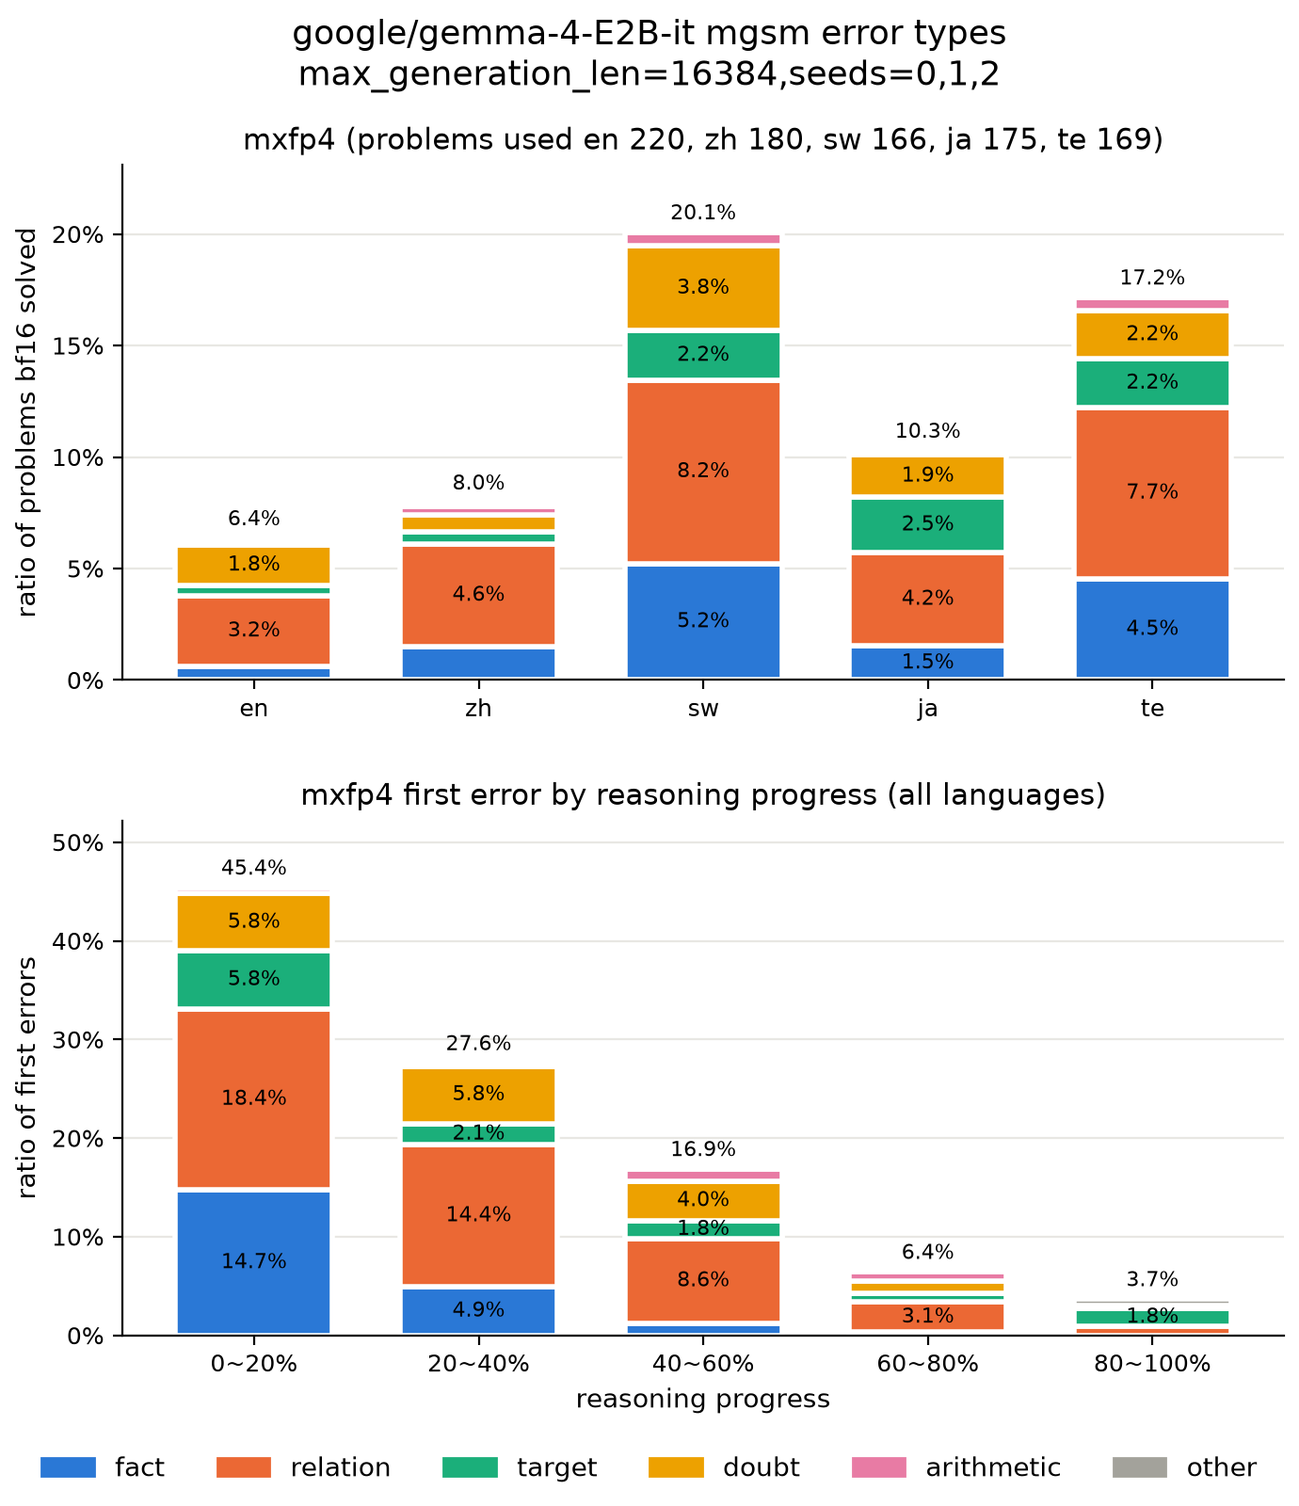
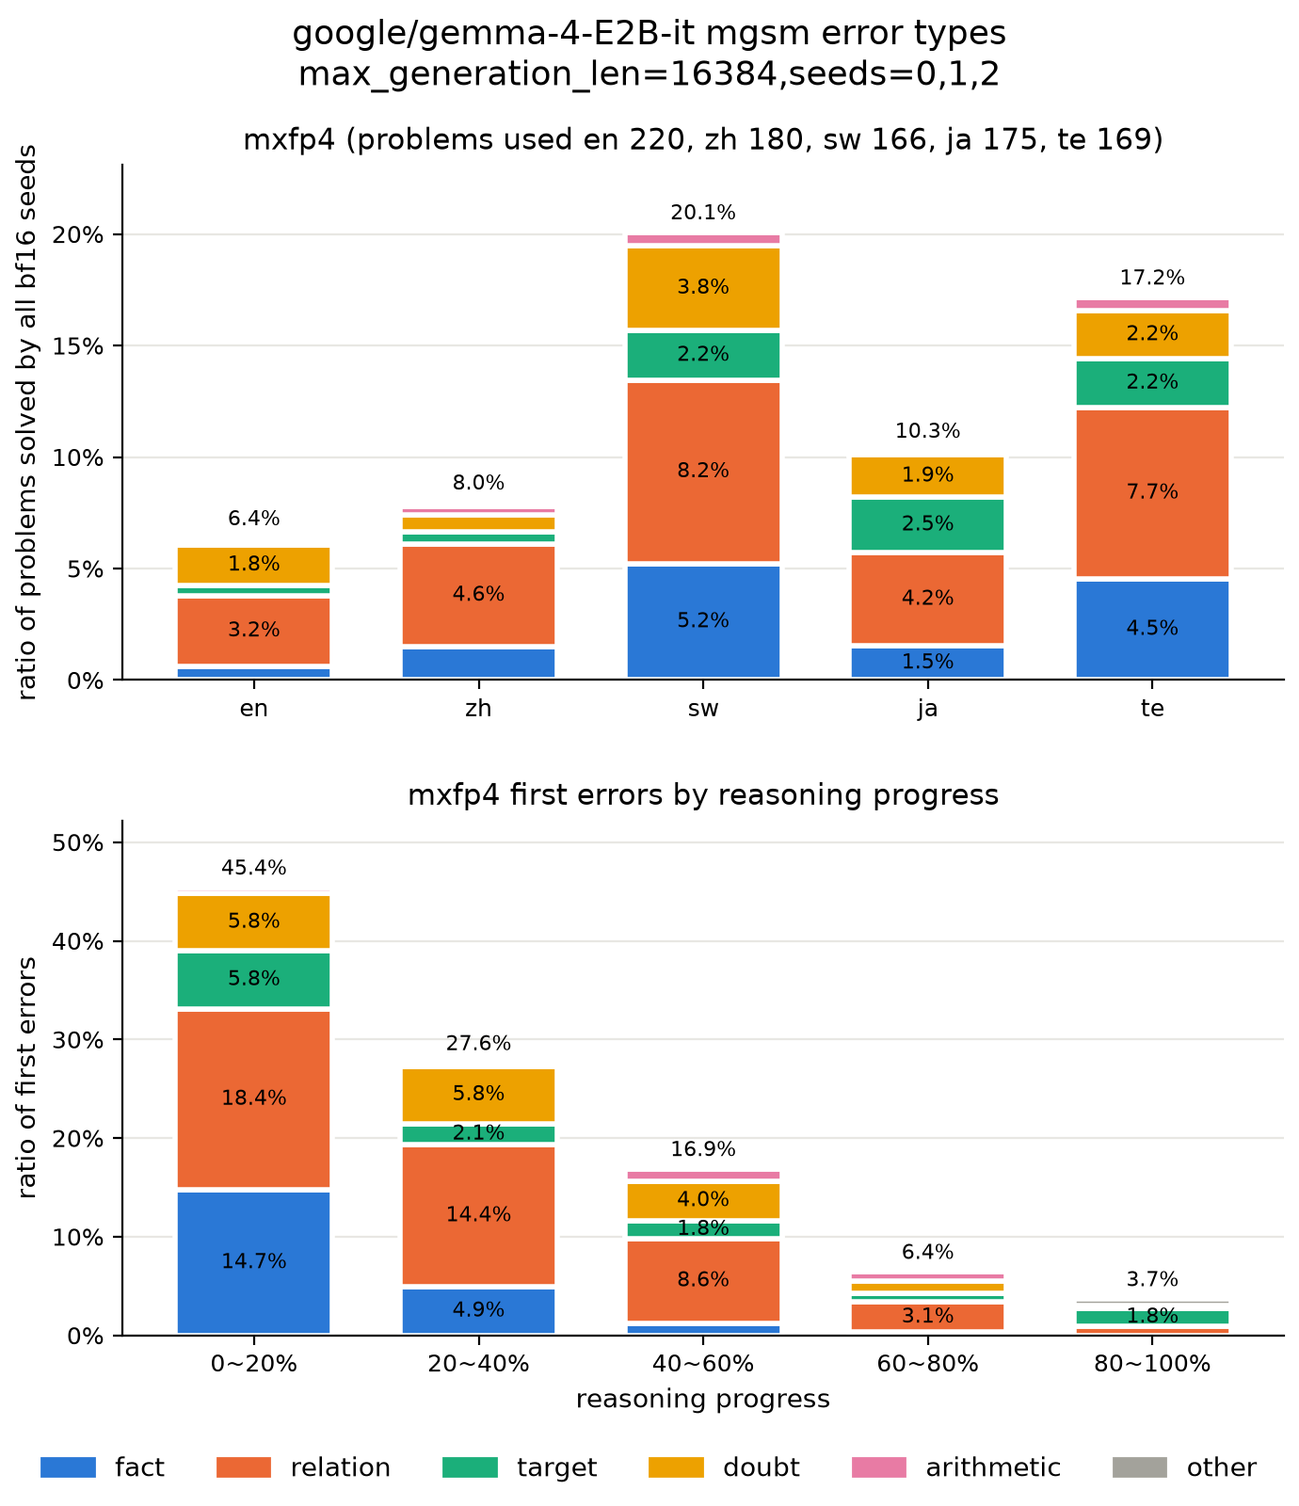
polish docs, comments and plots for consistency

diff --git a/methods/understanding_qat.py b/methods/understanding_qat.py
@@ -25,13 +25,13 @@ TRAIN_LANGUAGES = ["zh", "sw", "ja", "te"]
 @dataclass
 class Config:
     model_name: str = "google/gemma-4-E2B-it"
-    # bf16 reasoning on gsm8k to take en understanding from, seed also seeds training
-    seed: int = 0
-    max_generation_len: int = 16384
     lr: float = 1e-5
     num_epochs: int = 1
     warmup_ratio: float = 0.05
     batch_size: int = 8
+    # data to train on
+    seed: int = 0
+    max_generation_len: int = 16384
 
 
 class STELinear(Module):
@@ -42,7 +42,6 @@ class STELinear(Module):
         super().__init__()
         self.weight = linear.weight
         self.bias = linear.bias
-        # fix scale from bf16 weight, so groups are not rounded again to new scale when group max crosses power of 2
         self.scale = find_fp4_scale(self.groups())[..., None]
 
     def groups(
@@ -53,7 +52,7 @@ class STELinear(Module):
     def quantize(
         self,
     ) -> Tensor:
-        # detach only rounding, so gradient of quantized weight goes to weight
+        # detach only rounding, because gradient of quantized weight must go to weight
         with torch.no_grad():
             quantized = round_to_fp4(self.groups(), self.scale).reshape(self.weight.shape)
         return self.weight + (quantized - self.weight).detach()
@@ -86,8 +85,8 @@ def main() -> None:
     model = load_model(config.model_name)
     model.float()
 
-    # 1) put bf16 en understanding at start of reasoning, after prompt in each language, on problems that have it
-    # e.g. sw prompt + "<|channel>thought\nHere's a thinking process ...\n\n1.  **Understand the Goal:** ...\n\n"
+    # 1) put en understanding at start of reasoning, after prompt with native instruction
+    # e.g. sw prompt + "<|channel>thought\n" + en understanding
     tensors = load_tensors("gsm8k", make_bf16_path(config.model_name), f"max_generation_len={config.max_generation_len},seed={config.seed}")
     language_prompt_ids = {language: tensors[f"{language}/prompt_ids"].split(tensors[f"{language}/prompt_lens"].tolist()) for language in TRAIN_LANGUAGES}
     en_thinks = tokenizer.batch_decode(tensors["en/think_ids"].split(tensors["en/think_lens"].tolist()), skip_special_tokens=True)
@@ -102,7 +101,7 @@ def main() -> None:
             samples.append((torch.cat([prompt_ids, en_understanding_ids]), len(prompt_ids)))
     print(f"samples {len(samples)} problems {len(samples) // len(TRAIN_LANGUAGES)} of {len(en_thinks)}")
 
-    # 2) use ste linears, so gradient goes through mxfp4 rounding
+    # 2) use ste linears, because gradient must go through mxfp4 rounding
     replaced = replace_linears(model)
     ste_linears = [ste_linear for _, _, ste_linear in replaced]
     for ste_linear in ste_linears:
@@ -141,7 +140,7 @@ def main() -> None:
                 log_time = time.perf_counter()
                 torch.cuda.reset_peak_memory_stats()
 
-    # 4) put quantized weights back into linears, and save
+    # 4) put quantized weights back into linears and save
     layers = model.model.language_model.layers
     with torch.no_grad():
         for name, linear, ste_linear in replaced:

diff --git a/data/gsm8k.py b/data/gsm8k.py
@@ -26,7 +26,7 @@ def load_gsm8k() -> dict[str, list[tuple[str, int]]]:
     gsm8k = load_dataset("openai/gsm8k", "main", split="train")
     mcot = load_dataset("laihuiyuan/mCoT-MATH", data_files="train_part_*.jsonl", split="train").select_columns(["question", "lang-id"])
 
-    # 1) group mcot questions by id, because same problem has same id in every language
+    # 1) group mcot questions by id, because same problem has same id in each language
     # e.g. "en-54530", "sw-54530" -> questions["54530"] = {"en": ..., "sw": ...}
     questions = defaultdict(dict)
     for batch in mcot.iter(batch_size=100000):
@@ -35,14 +35,14 @@ def load_gsm8k() -> dict[str, list[tuple[str, int]]]:
             if language in MGSM_PROMPTS:
                 questions[mcot_id][language] = question.strip()
 
-    # 2) map en question to questions in all languages
+    # 2) map mcot en question to question in each language
     questions_by_en = {" ".join(language_questions["en"].split()): language_questions for language_questions in questions.values()}
 
-    # 3) take questions in all languages for each gsm8k train problem, in gsm8k order
+    # 3) match each gsm8k train question with mcot en question
     problems = {language: [] for language in MGSM_PROMPTS}
     for row in gsm8k:
         language_questions = questions_by_en[" ".join(row["question"].split())]
-        # e.g. "Natalia sold 48/2 = <<48/2=24>>24 clips in May. ...\n#### 72" -> 72
+        # e.g. "...\n#### 72" -> 72
         answer = int(row["answer"].split("####")[-1].replace(",", ""))
         for language in MGSM_PROMPTS:
             problems[language].append((MGSM_PROMPTS[language].format(question=language_questions[language]), answer))
@@ -67,7 +67,7 @@ def main() -> None:
     print(f"{target} en accuracy {result['accuracy']:.2%} think len {mean(result['think_lens']):.0f} truncated {mean(result['truncateds']):.2%}")
     print(f"{target} time {format_duration(time.perf_counter() - log_time)}")
 
-    # 2) keep prompt ids of each language, en reasoning ids, on problems solved by bf16 in en
+    # 2) keep prompt ids in each language and en reasoning ids on problems solved by bf16 in en
     # e.g. "<|channel>thought\n...<channel|>Answer: 72" -> "<|channel>thought\n..."
     tensors = defaultdict(list)
     for problem_index, (output, correct, think_len) in enumerate(zip(outputs, result["corrects"], result["think_lens"])):

diff --git a/utils/model.py b/utils/model.py
@@ -4,7 +4,7 @@ from transformers import AutoModelForImageTextToText, PreTrainedModel, PreTraine
 from vllm import LLM, SamplingParams  # type: ignore
 from vllm.outputs import CompletionOutput  # type: ignore
 
-# sampling settings recommended for thinking mode, with reasoning start, end tokens
+# sampling settings recommended for thinking mode, with reasoning start and end tokens
 GENERATION_CONFIGS = {
     "Qwen/Qwen3.5-2B": {"temperature": 1.0, "top_p": 0.95, "top_k": 20, "presence_penalty": 1.5, "think_start": "", "think_end": "</think>"},
     "Qwen/Qwen3.5-27B": {"temperature": 1.0, "top_p": 0.95, "top_k": 20, "presence_penalty": 1.5, "think_start": "", "think_end": "</think>"},
@@ -12,7 +12,7 @@ GENERATION_CONFIGS = {
 }
 
 # saved gemma reasoning starts with this after reasoning start token
-# e.g. "<|channel>thought\nHere's a thinking process ...<channel|>"
+# e.g. "<|channel>thought\n...<channel|>"
 THINK_HEADER = "thought\n"
 
 
@@ -75,7 +75,7 @@ def get_think_ids(
     model_name: str,
     think: str,
 ) -> Tensor:
-    # saved reasoning has no special tokens, so put back reasoning start token
+    # put back reasoning start token, because saved reasoning has no special tokens
     return tokenizer(GENERATION_CONFIGS[model_name]["think_start"] + think, add_special_tokens=False, return_tensors="pt")["input_ids"][0]
 
 
@@ -84,8 +84,7 @@ def get_think_hiddens(
     input_ids: Tensor,
     prompt_len: int,
 ) -> Tensor:
-    # hidden at t predicts token t+1
-    # so keep from last prompt token to second last reasoning token
+    # keep from last prompt token to second last reasoning token, because hidden at t predicts token t+1
     # e.g. input [p0, p1, p2, r0, r1, r2]
     #      keep  [        p2, r0, r1    ] (each predicts r0, r1, r2)
     return model.model(input_ids=input_ids[None, :].to(model.device), use_cache=False).last_hidden_state[0, prompt_len - 1 : -1]
@@ -96,6 +95,6 @@ def get_logits(
     hiddens: Tensor,
 ) -> Tensor:
     logits = model.lm_head(hiddens).float()
-    # gemma forward caps logits, so do same when calling lm_head directly
+    # cap logits when calling lm_head directly, because gemma forward caps them
     softcapping = getattr(model.config.get_text_config(), "final_logit_softcapping", None)
     return logits if softcapping is None else torch.tanh(logits / softcapping) * softcapping

diff --git a/plots/error_types.py b/plots/error_types.py
@@ -56,7 +56,6 @@ def main() -> None:
     tokenizer = AutoTokenizer.from_pretrained(config.model_name)
     bf16_results = [load_result("mgsm", make_bf16_path(config.model_name), f"max_generation_len={config.max_generation_len},seed={seed}") for seed in config.bf16_seeds]
 
-    # 1) count error types of each language
     language_ratios = []
     used_counts = {}
     for language in LANGUAGES:
@@ -64,7 +63,6 @@ def main() -> None:
         error_types = [error_type or "other" for result in results for error_type in result[language]["error_types"]]
         language_ratios.append({error_type: error_types.count(error_type) / (used_counts[language] * len(results)) for error_type in ERROR_TYPE_COLORS})
 
-    # 2) count error types of first errors in each reasoning progress bin
     bin_counts = [dict.fromkeys(ERROR_TYPE_COLORS, 0) for _ in range(NUM_PROGRESS_BINS)]
     for language in LANGUAGES:
         for result, quantized_result in zip(results, quantized_results):
@@ -80,14 +78,14 @@ def main() -> None:
     fig, axes = plt.subplot_mosaic([["types"], ["progress"]], figsize=get_figsize([get_panel_width(len(LANGUAGES), 1)], 2), layout="constrained")
     plot_error_types(axes["types"], language_ratios)
     axes["types"].set_xticks(range(len(LANGUAGES)), LANGUAGES)
-    axes["types"].set_ylabel("ratio of problems bf16 solved")
+    axes["types"].set_ylabel("ratio of problems solved by all bf16 seeds")
     axes["types"].set_title(f"{config.method} (problems used {', '.join(f'{language} {used_counts[language]}' for language in LANGUAGES)})")
 
     plot_error_types(axes["progress"], progress_ratios)
     axes["progress"].set_xticks(range(NUM_PROGRESS_BINS), PROGRESS_LABELS)
     axes["progress"].set_xlabel("reasoning progress")
     axes["progress"].set_ylabel("ratio of first errors")
-    axes["progress"].set_title(f"{config.method} first error by reasoning progress (all languages)")
+    axes["progress"].set_title(f"{config.method} first errors by reasoning progress")
 
     fig.suptitle(f"{config.model_name} mgsm error types\nmax_generation_len={config.max_generation_len},seeds={','.join(map(str, config.seeds))}")
     fig.legend(handles=[Patch(color=color, label=error_type) for error_type, color in ERROR_TYPE_COLORS.items()], loc="outside lower center", ncol=len(ERROR_TYPE_COLORS))

diff --git a/methods/awq.py b/methods/awq.py
@@ -25,7 +25,7 @@ class Config:
     group_size: int = 128
     num_search_steps: int = 20
     max_shrink: float = 0.5
-    # wikipedia calibration
+    # data to calibrate on
     calibration_languages: tuple[Literal["en", "zh", "sw", "ja", "te"], ...] = ("en",)
     num_samples: int = 128
     max_sequence_len: int = 2048
@@ -115,7 +115,7 @@ def find_smooth(
     group_size: int,
     num_search_steps: int,
 ) -> Tensor:
-    # compare whole layer output, not each sub-module, so code stays simple
+    # compare whole layer output, not each sub-module, because it keeps code simple
     outputs = forward_layer(layer, inputs)
     weights = [linear.weight.clone() for linear in linears]
 
@@ -143,13 +143,12 @@ def find_clip(
     num_search_steps: int,
     max_shrink: float,
 ) -> Tensor:
-    # outliers widen grid range, step size
-    # so search clip for each quantization group
-    # 1) apply smooth to weight (w * s), hessian (x / s)
+    # search clip for each group, because outliers widen grid range and step size
+    # 1) apply smooth to weight (w * s) and hessian (x / s)
     groups = (weight.float() * smooth).reshape(weight.shape[0], -1, group_size)
     num_groups = groups.shape[1]
     smoothed_hessian = hessian / smooth[:, None] / smooth[None, :]
-    # clip is picked per group, so keep only each group's diagonal block
+    # keep only each group's diagonal block, because clip is picked per group
     hessian_blocks = smoothed_hessian.reshape(num_groups, group_size, num_groups, group_size).diagonal(dim1=0, dim2=2).permute(2, 0, 1)
 
     # 2) search clip
@@ -161,7 +160,7 @@ def find_clip(
         scale, zero = find_grid(groups.clamp(-clip_value[..., None], clip_value[..., None]), num_bits)
         quantized = round_to_grid(groups, scale[..., None], zero[..., None], num_bits)
         delta = quantized - groups
-        # error of other groups in same row also affects output, but ignore it, so each group's clip can be searched alone
+        # ignore error of other groups in same row, because then each group's clip can be searched alone
         error = torch.einsum("ogi,gij,ogj->og", delta, hessian_blocks, delta)
         is_better = error < best_error
         best_error = torch.where(is_better, error, best_error)

diff --git a/methods/gptq.py b/methods/gptq.py
@@ -23,7 +23,7 @@ class Config:
     group_size: int = 128
     block_size: int = 128
     damp_ratio: float = 0.01
-    # wikipedia calibration
+    # data to calibrate on
     calibration_languages: tuple[Literal["en", "zh", "sw", "ja", "te"], ...] = ("en",)
     num_samples: int = 128
     max_sequence_len: int = 2048
@@ -60,12 +60,12 @@ def quantize_weight(
     damp_ratio: float,
 ) -> Tensor:
     weight = weight.float().clone()
-    # 1) zero dead columns, so hessian stays invertible
+    # 1) zero dead columns, because hessian must stay invertible
     is_dead = hessian.diagonal() == 0
     weight[:, is_dead] = 0
     hessian.diagonal()[is_dead] = 1
 
-    # 2) damp diagonal, so inverse stays stable
+    # 2) damp diagonal, because inverse must stay stable
     hessian.diagonal().add_(damp_ratio * hessian.diagonal().mean())
     hessian_inv = torch.linalg.cholesky(torch.cholesky_inverse(torch.linalg.cholesky(hessian)), upper=True)
 
@@ -78,10 +78,10 @@ def quantize_weight(
         end = min(start + block_size, weight.shape[1])
         for column in range(start, end):
             group = column // group_size
-            # set grid when group starts, so it uses weights updated by earlier columns
+            # set grid when group starts, because it must use weights updated by earlier columns
             if column % group_size == 0:
                 scale[:, group], zero[:, group] = find_grid(weight[:, column : column + group_size], num_bits)
-            # 3-1) quantize column, and spread its error to later columns in block
+            # 3-1) quantize column and spread its error to later columns in block
             quantized[:, column] = round_to_grid(weight[:, column], scale[:, group], zero[:, group], num_bits)
             error[:, column - start] = (weight[:, column] - quantized[:, column]) / hessian_inv[column, column]
             weight[:, column:end] -= torch.outer(error[:, column - start], hessian_inv[column, column:end])

diff --git a/plots/teacher_forcing.py b/plots/teacher_forcing.py
@@ -41,18 +41,18 @@ def main() -> None:
         target = make_target_path(method, config.model_name, config.calibration_languages, config.num_bits, config.group_size, config.num_samples)
         results[method] = load_tensors(entry_name, target, file_name)
 
-    kl_groups = []
+    groups = []
     for language in LANGUAGES:
         kl_means = []
         for result in results.values():
             problem_kls = torch.stack([kl.mean() for kl in split_problems(result[f"{language}/kl"], result[f"{language}/problem_index"])])
             kl_means.append(problem_kls.mean().item())
-        kl_groups.append((kl_means, LANGUAGE_COLORS[language], [f"{kl_mean:.3f}" for kl_mean in kl_means]))
+        groups.append((kl_means, LANGUAGE_COLORS[language], [f"{kl_mean:.3f}" for kl_mean in kl_means]))
 
     panel_widths = [get_panel_width(len(results), len(LANGUAGES))]
     fig, axes = plt.subplot_mosaic([["kl"], ["progress"]], figsize=get_figsize(panel_widths, 2), layout="constrained")
-    plot_bars(axes["kl"], list(results), kl_groups)
-    axes["kl"].set_ylim(0, max(max(values) for values, _, _ in kl_groups) * 1.15)
+    plot_bars(axes["kl"], list(results), groups)
+    axes["kl"].set_ylim(0, max(max(values) for values, _, _ in groups) * 1.15)
     axes["kl"].set_ylabel("mean kl per problem")
     result = results[config.method]
     used_counts = {language: len(result[f"{language}/problem_index"].unique()) for language in LANGUAGES}
@@ -68,7 +68,6 @@ def main() -> None:
 
     fig.suptitle(f"{config.model_name} mgsm teacher forcing\n{file_name}")
     fig.legend(handles=[Line2D([], [], color=LANGUAGE_COLORS[language], marker="o", linewidth=2, label=language) for language in LANGUAGES], loc="outside lower center", ncol=len(LANGUAGES))
-    # panels share one column, so fit width by one panel
     fit_bar_width(fig, [axes["kl"]])
     save_figure(fig, config.model_name, "mgsm_teacher_forcing")
 

diff --git a/experiments/en_understanding_swap.py b/experiments/en_understanding_swap.py
@@ -41,15 +41,17 @@ def main() -> None:
     problems = load_mgsm(languages)
     bf16_result = load_result("mgsm", make_bf16_path(config.model_name), file_name)
 
-    # 1) put bf16 en understanding at start of reasoning, after prompt in each language, on problems that have it
+    # 1) use problems that have en understanding
     tokenizer = AutoTokenizer.from_pretrained(config.model_name)
     understandings = [get_understanding(think) for think in bf16_result["en"]["thinks"]]
     problem_indices = [problem_index for problem_index, understanding in enumerate(understandings) if understanding is not None]
+
+    # 2) put en understanding at start of reasoning, after prompt with native instruction
     input_ids = [torch.cat([get_prompt_ids(tokenizer, problems[language][problem_index][0]), get_think_ids(tokenizer, config.model_name, understandings[problem_index])]) for language in languages for problem_index in problem_indices]
     model_path = config.model_name if config.method == "bf16" else download_model(target)
     model = load_vllm(model_path, config.model_name, config.seed)
 
-    # 2) continue after understanding and score it
+    # 3) continue after en understanding and score it
     log_time = time.perf_counter()
     outputs = continue_vllm(model, config.model_name, input_ids, config.max_generation_len)
     result = {}

diff --git a/experiments/error_types.py b/experiments/error_types.py
@@ -79,7 +79,7 @@ def main() -> None:
     bf16_results = [load_result("mgsm", bf16_target, f"max_generation_len={config.max_generation_len},seed={seed}") for seed in config.bf16_seeds]
     quantized_result = load_result("mgsm", target, file_name)
 
-    # 1) take quantized wrong reasoning on problems solved by all bf16 seeds
+    # 1) take wrong reasoning on problems solved by all bf16 seeds
     problem_indices = {}
     prompts = []
     for language in languages:
@@ -97,8 +97,8 @@ def main() -> None:
             ))
         print(f"{target} {language} wrong {len(problem_indices[language])}")
 
-    # 2) judge and read line, type from end of response
-    # qwen3.5-27b needs more memory per sequence, so default 1024 sequences don't fit
+    # 2) read first wrong line and error type from end of judge response
+    # 256 sequences, because qwen3.5-27b does not fit default 1024 sequences
     model = load_vllm(config.judge_name, config.judge_name, config.seed, max_num_seqs=256)
     tokenizer = model.get_tokenizer()
     log_time = time.perf_counter()

diff --git a/plots/loss.py b/plots/loss.py
@@ -76,7 +76,6 @@ def main() -> None:
             groups.append((values, LANGUAGE_COLORS[language], [format_ratio(value, bf16_values[-1]) for value in values]))
 
         plot_bars(ax, list(results), groups, bf16_values)
-        # same scale for every model, benchmark, so figures can be compared
         ax.set_ylim(0, ymax)
         ax.set_ylabel(ylabel)
         ax.set_title(title)
@@ -85,7 +84,6 @@ def main() -> None:
     fig.suptitle(f"{config.model_name} {config.benchmark} loss\nmax_generation_len={config.max_generation_len},seeds={','.join(map(str, config.seeds))}")
     handles = [Patch(color=LANGUAGE_COLORS[language], label=f"{language} ({format_bf16_accuracy([bf16_result[language]['accuracy'] for bf16_result in bf16_results])})") for language in LANGUAGES]
     fig.legend(handles=[*handles, Patch(color=BF16_COLOR, label="bf16")], loc="outside lower center", ncol=len(handles) + 1)
-    # panels share one column, so fit width by one panel
     fit_bar_width(fig, [axes[0]])
     save_figure(fig, config.model_name, f"{config.benchmark}_loss")
 

diff --git a/experiments/reasoning_swap.py b/experiments/reasoning_swap.py
@@ -53,7 +53,7 @@ def main() -> None:
     think_end_id = tokenizer.convert_tokens_to_ids(think_end)
 
     for reasoning_method in missing_reasoning_methods:
-        # 1) take whole reasoning of problems that reached response
+        # 1) take saved reasoning on problems that reached response
         problem_indices = {}
         input_ids = []
         for language in languages:
@@ -67,7 +67,8 @@ def main() -> None:
         # 2) write response and score it
         log_time = time.perf_counter()
         outputs = continue_vllm(model, config.model_name, input_ids, config.max_generation_len)
-        # think_end is in input, but split_outputs looks for it in output
+        # add reasoning end token to output, because split_outputs looks for it there
+        # e.g. response -> "<channel|>" + response
         outputs = [SimpleNamespace(token_ids=[think_end_id, *output.token_ids], finish_reason=output.finish_reason) for output in outputs]
         result = {}
         start = 0

diff --git a/experiments/en_question_insert.py b/experiments/en_question_insert.py
@@ -39,8 +39,8 @@ def main() -> None:
     languages = list(MGSM_PROMPTS)
     problems = load_mgsm(languages)
 
-    # 1) put en question at start of reasoning, after prompt in each language
-    # e.g. sw prompt + "<|channel>thought\n" + "Janet's ducks lay 16 eggs per day. ..." + blank line
+    # 1) put en question at start of reasoning, after prompt with native instruction
+    # e.g. sw prompt + "<|channel>thought\n" + en question + "\n\n"
     tokenizer = AutoTokenizer.from_pretrained(config.model_name)
     en_questions = [get_mgsm_question(prompt) for prompt, _ in problems["en"]]
     input_ids = [torch.cat([get_prompt_ids(tokenizer, prompt), get_think_ids(tokenizer, config.model_name, THINK_HEADER + en_question + "\n\n")]) for language in languages for (prompt, _), en_question in zip(problems[language], en_questions)]
